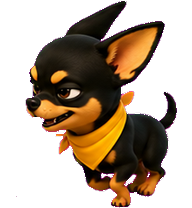
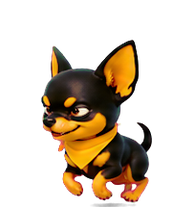
Add a walk cycle, and match ground speed to each gait's stride
The pet only had a run, played at 55 px/sec for a cycle whose stride is
several times that, so it treadmilled: a full gallop advanced it 33px
against a body length of 188. Wander now picks a gait by distance and each
gait moves at the speed its own art implies, measured by tracking how far
the ground-contact pixels travel through the contact phase — 121 px/sec
walking, 257 running. A test reads that stride back out of the frames and
checks the constants against it, since redrawing legs moves it; one edit
during this work shifted the walk from 92 to 135 to 121.

Sub-pixel movement now carries between ticks. Truncating it made the real
speed a property of the timer interval instead of the setting: at 16ms the
pet advanced one whole pixel per tick, 62 px/sec, whatever was configured.

Picking a gait from the menu traverses the screen rather than running the
legs on the spot, falling back to held playback when there is no room.

Both gaits are re-imported from the source strips with the keying reworked:
the key is un-premultiplied out of the blend so edge pixels carry real fur
colour at partial alpha, spill is neutralised wherever red and blue both
clear green, and the resample is premultiplied. Hard staircase steps along
the silhouette fell from 45% to 7-9%. Residue removal now tests red and
blue against green rather than against fixed levels, which caught a class
of darker rim pixels around (105, 5, 107) that showed as a purple fringe.
[…]

diff --git a/tests/test_qt_backend.py b/tests/test_qt_backend.py
@@ -573,6 +573,139 @@ def test_menu_exposes_evil_specials_only_in_evil_mode(window, library, monkeypat
         assert special in evil_labels
 
 
+def test_picking_a_gait_from_the_menu_travels(window, monkeypatch):
+    """Held playback runs the legs on the spot, which reads as a treadmill."""
+    from PyQt6.QtCore import QRect
+    area = QRect(0, 0, window.width() + 800, 400)
+    monkeypatch.setattr(window, "_current_screen_geometry", lambda: area)
+    window.state.set_persona("evil")
+    for name, gait, expected_dir in (("walking-right", "walking", 1),
+                                     ("running-left", "running", -1)):
+        window.move(area.x() + 400, window.y())
+        start = window.x()
+        window.pick_animation(name)
+        assert window.state.clip.name == name
+        assert not window.state.held, "a traversal must not be held in place"
+        assert window._wander_gait == gait
+        assert window._wander_target is not None
+        for _ in range(40):
+            window.tick()
+        moved = window.x() - start
+        assert moved * expected_dir > 0, f"{name} went the wrong way ({moved}px)"
+
+
+def test_picking_a_still_animation_still_holds(window):
+    window.state.set_persona("evil")
+    window.pick_animation("grin")
+    assert window.state.held and window._wander_target is None
+
+
+def test_gait_at_the_edge_holds_instead_of_travelling(window, monkeypatch):
+    """No room to walk means play it where it stands, not stutter at the wall."""
+    from PyQt6.QtCore import QRect
+    area = QRect(0, 0, window.width() + 800, 400)
+    monkeypatch.setattr(window, "_current_screen_geometry", lambda: area)
+    window.state.set_persona("evil")
+    window.move(area.right() - window.width(), window.y())
+    window.pick_animation("walking-right")
+    assert window.state.held and window._wander_target is None
+
+
+def test_gait_speed_matches_the_stride_in_the_art():
+    """Ground speed has to track the art, or the paws skate.
+
+    Reads the stride straight out of the frames: a planted paw travels backwards
+    by one stride per cycle, so the fore-aft span of the ground-contact pixels
+    over the contact phase gives the speed at which the feet grip. Editing the
+    legs moves this — a redraw of the walk cycle shifted its stride from 92px to
+    128px — so the constant is checked against the frames rather than trusted.
+    """
+    from zestpet.qt_backend import GAIT_SPEED
+    lib = core.ClipLibrary().load()
+    for gait, want in GAIT_SPEED.items():
+        clip = lib.resolve(f"{gait}-right", "evil")
+        assert clip is not None, f"no art for {gait}"
+        paws = []
+        for frame in clip.frames:
+            a = frame.getchannel("A").load()
+            w, h = frame.size
+            paw = max(y for y in range(h) if any(a[x, y] > 128 for x in range(w)))
+            band = [x for y in range(paw - 4, paw + 1) for x in range(w) if a[x, y] > 128]
+            paws.append((paw, min(band), max(band)))
+        floor = max(p for p, _, _ in paws)
+        # A blurred paw reads a few pixels high, so contact is a window not an
+        # exact match; the airborne frames of the run sit 14px or more clear.
+        contact = [(lo, hi) for p, lo, hi in paws if floor - p <= 10]
+        span = max(hi for _, hi in contact) - min(lo for lo, _ in contact)
+        measured = span / (len(contact) / clip.fps)
+        assert abs(measured - want) / want < 0.15, (
+            f"{gait}: art strides at {measured:.0f} px/sec, GAIT_SPEED says {want:.0f}")
+
+
+def test_gait_matches_the_distance(window):
+    """A short hop is a stroll, a long trip is a run."""
+    from zestpet.qt_backend import RUN_DISTANCE, MIN_WANDER_DISTANCE
+    window.state.set_persona("evil")
+    assert window._gait_for(MIN_WANDER_DISTANCE) == "walking"
+    assert window._gait_for(RUN_DISTANCE - 1) == "walking"
+    assert window._gait_for(RUN_DISTANCE) == "running"
+    assert window._gait_for(RUN_DISTANCE * 3) == "running"
+
+
+def test_gait_falls_back_to_running_without_walk_art(window):
+    """The walk cycle is evil-only art, so the plain persona has to keep running
+    rather than asking for a clip that cannot resolve."""
+    from zestpet.qt_backend import RUN_DISTANCE
+    window.state.set_persona(COMMON)
+    assert not window.library.has("walking-right", COMMON)
+    assert window._gait_for(RUN_DISTANCE // 2) == "running"
+
+
+def test_wander_plays_the_gait_it_picked(window, monkeypatch):
+    from PyQt6.QtCore import QRect
+    from zestpet.qt_backend import IDLE_BEFORE_WANDER, RUN_DISTANCE
+    window.state.set_persona("evil")
+    area = QRect(0, 0, window.width() + RUN_DISTANCE * 2, 400)
+    monkeypatch.setattr(window, "_current_screen_geometry", lambda: area)
+    window.config["wander"] = True
+    for target, expected in ((60, "walking"), (RUN_DISTANCE + 80, "running")):
+        window.move(0, window.y())
+        window._wander_target = None
+        window._last_interaction -= IDLE_BEFORE_WANDER + 1
+        monkeypatch.setattr(window, "_pick_wander_target", lambda *a, t=target: t)
+        window._step_wander()
+        assert window._wander_gait == expected
+        assert window.state.clip.name == f"{expected}-right"
+
+
+def test_wander_speed_does_not_depend_on_the_tick_rate(window, monkeypatch):
+    """Sub-pixel movement has to carry over between ticks.
+
+    Truncating it made the real speed a property of the timer interval: at 16ms
+    a stroll moved one whole pixel a tick, 62px/sec, whichever constant was set.
+    """
+    from PyQt6.QtCore import QRect
+    from zestpet.qt_backend import GAIT_SPEED, IDLE_BEFORE_WANDER
+    area = QRect(0, 0, 4000, 400)
+    monkeypatch.setattr(window, "_current_screen_geometry", lambda: area)
+    window.config["wander"] = True
+    for gait in ("walking", "running"):
+        window.move(0, window.y())
+        window._wander_target = 3000
+        window._wander_gait = gait
+        window._wander_carry = 0.0
+        window._last_interaction -= IDLE_BEFORE_WANDER + 1
+        ticks = 200
+        start = window.x()
+        for _ in range(ticks):
+            window._step_wander()
+        travelled = window.x() - start
+        seconds = ticks * window._timer.interval() / 1000.0
+        expected = GAIT_SPEED[gait] * seconds
+        assert abs(travelled - expected) <= 2, (
+            f"{gait}: moved {travelled}px in {seconds:.2f}s, expected {expected:.0f}")
+
+
 def test_scale_steps_match_the_pre_refactor_build():
     """Parity check. Lived in test_core.py, which is meant to import no GUI
     toolkit — reading qt_backend.SCALES pulls in PyQt6, so it belongs here."""

diff --git a/zestpet/qt_backend.py b/zestpet/qt_backend.py
@@ -23,7 +23,14 @@ DRAG_THRESHOLD = 3
 CLICK_MAX_SECONDS = 0.3
 LOOK_POLL_MS = 100
 IDLE_BEFORE_WANDER = 12.0
-WANDER_SPEED = 55.0  # px/sec
+# Ground speed is matched to each cycle's own stride so the paws grip instead of
+# skating. Measured from the art by tracking how far the ground-contact pixels
+# travel: the walk keeps all eight frames planted and drags 121px through its
+# 1.0s cycle; the run's three contact frames drag 77px in 0.30s, and the
+# airborne half covers the same again. A single 55px/sec for both left the pet
+# treadmilling — a full gallop advanced it 33px, under a third of a body length.
+GAIT_SPEED = {"walking": 121.0, "running": 257.0}  # px/sec
+RUN_DISTANCE = 320  # far enough that strolling there would take too long
 MIN_WANDER_DISTANCE = 40  # don't bother strolling less than this
 GRAVITY = 1400.0  # px/sec^2
 FLOOR_MARGIN = 8
@@ -42,6 +49,12 @@ PET_WINDOW_KIND = Qt.WindowType.Window if sys.platform == "darwin" else Qt.Windo
 
 def to_pixmap(pil_img) -> QPixmap:
     return QPixmap.fromImage(ImageQt.ImageQt(pil_img))
+
+
+def _gait_of(name: str):
+    """Split a locomotion clip name into (gait, direction), or None."""
+    gait, _, direction = name.rpartition("-")
+    return (gait, direction) if gait in GAIT_SPEED and direction in ("left", "right") else None
 
 
 class PetWidget(QLabel):
@@ -88,6 +101,8 @@ class PetWindow(QWidget):
         self._last_drag_x = 0
         self._last_interaction = time.perf_counter()
         self._wander_target: Optional[int] = None
+        self._wander_gait: str = "running"
+        self._wander_carry: float = 0.0
         self._fall_velocity: Optional[float] = None
         self._tray: Optional[QSystemTrayIcon] = None
 
@@ -264,6 +279,15 @@ class PetWindow(QWidget):
             pick -= width
         return None  # unreachable: pick is always inside one of the ranges
 
+    def _gait_for(self, distance: int) -> str:
+        """Stroll a short hop, run a long one.
+
+        Walking art is evil-only, so any persona without it always runs.
+        """
+        if distance < RUN_DISTANCE and self.library.has("walking-right", self.state.persona):
+            return "walking"
+        return "running"
+
     def _step_wander(self) -> bool:
         """Stroll to a random spot along the current screen after a quiet spell."""
         if self.state.busy or self._dragging or self._fall_velocity is not None:
@@ -289,9 +313,18 @@ class PetWindow(QWidget):
             if target is None:
                 return False
             self._wander_target = target
+            self._wander_gait = self._gait_for(abs(target - self.x()))
+            self._wander_carry = 0.0
+        gait = self._wander_gait
         direction = 1 if self._wander_target > self.x() else -1
-        self.state.play("running-right" if direction > 0 else "running-left")
-        step = max(1, int(WANDER_SPEED * self._timer.interval() / 1000.0))
+        self.state.play(f"{gait}-right" if direction > 0 else f"{gait}-left")
+        # Carry the fraction of a pixel over to the next tick. Truncating it
+        # away made the real speed a function of the timer interval rather than
+        # of the setting: at 16ms a stroll advanced a whole pixel per tick,
+        # 62 px/sec, whatever the constant said.
+        advance = GAIT_SPEED[gait] * self._timer.interval() / 1000.0 + self._wander_carry
+        step = int(advance)
+        self._wander_carry = advance - step
         new_x = self.x() + direction * step
         arrived = (new_x >= self._wander_target) if direction > 0 else (new_x <= self._wander_target)
         if arrived:
@@ -437,8 +470,29 @@ class PetWindow(QWidget):
     def _play_held(self, name: str) -> None:
         self._last_interaction = time.perf_counter()
         self._wander_target = None
+        gait = _gait_of(name)
+        if gait and self._start_traverse(*gait):
+            return
         self.state.play(name, held=True)
         self.render()
+
+    def _start_traverse(self, gait: str, direction: str) -> bool:
+        """Walk or run to the edge of the screen instead of on the spot.
+
+        Held playback keeps the pet still, so picking a gait from the menu ran
+        the legs and went nowhere — a treadmill. Returns False when there is no
+        room to go anywhere, in which case the caller holds the clip as before.
+        """
+        area = self._current_screen_geometry()
+        edge = area.x() if direction == "left" else area.right() - self.width()
+        if abs(edge - self.x()) < MIN_WANDER_DISTANCE:
+            return False
+        self.state.play(f"{gait}-{direction}")  # not held, so _step_wander drives it
+        self._wander_gait = gait
+        self._wander_carry = 0.0
+        self._wander_target = edge
+        self.render()
+        return True
 
     def _start_fall_if_airborne(self) -> None:
         if not self.config.get("gravity", True):

diff --git a/tests/test_core.py b/tests/test_core.py
@@ -125,9 +125,13 @@ def test_every_frame_is_rgba_and_not_blank(lib):
 
 
 def test_no_chroma_key_residue(lib):
-    """The art is rendered on magenta. Any strongly magenta pixel left behind is
-    key residue showing as a rim around the silhouette — the palette is black,
-    tan, yellow, grey-blue and cream, so nothing here is legitimately magenta."""
+    """No source may skip the residue cleanup.
+
+    The art is rendered on magenta and every loader path has to run the frames
+    through drop_key_residue. The risk this guards is a missing call — a new
+    source, or a step inserted after the cleanup that resamples the key colour
+    back in — so it asks for zero, not for a small number.
+    """
     offenders = {}
     for clip in lib._clips.values():
         count = 0
@@ -137,11 +141,71 @@ def test_no_chroma_key_residue(lib):
             for y in range(0, h, 2):
                 for x in range(0, w, 2):
                     r, g, b, a = px[x, y]
-                    if a > 128 and r > 110 and b > 110 and g < 70:
+                    if (a > 64 and r - g > core.MAGENTA_OVER_GREEN
+                            and b - g > core.MAGENTA_OVER_GREEN):
                         count += 1
-        if count > 20:  # a handful of sampled pixels is dark fur, not a rim
+        if count:
             offenders[f"{clip.persona}/{clip.name}"] = count
     assert not offenders, f"chroma-key residue left: {offenders}"
+
+
+def test_key_residue_mask_is_calibrated():
+    """The cut between residue and art, pinned against real pixel values.
+
+    Residue arrives at every brightness because the rim is magenta diluted by
+    whatever it borders. Testing against an absolute level missed the darker end
+    of that range: the samples here are measured from imported frames, and the
+    (105, 5, 107) one survived the earlier threshold of 110 and showed as a
+    visible purple fringe.
+    """
+    palette = {
+        "black fur": (30, 25, 20),
+        "tan": (200, 140, 60),
+        "yellow bandana": (255, 210, 60),
+        "cream muzzle": (245, 235, 210),
+        "grey-blue": (100, 130, 160),
+        "neutral grey": (100, 95, 100),
+        "cool shadow on black": (60, 60, 70),
+    }
+    residue = {
+        "bright rim": (216, 3, 202),
+        "mid rim": (115, 34, 110),
+        "dark rim": (105, 5, 107),
+        "darker rim": (77, 5, 67),
+    }
+
+    def surviving_alpha(rgb):
+        img = Image.new("RGBA", (4, 4), rgb + (255,))
+        return core.drop_key_residue(img).getpixel((2, 2))[3]
+
+    for name, rgb in palette.items():
+        assert surviving_alpha(rgb) == 255, f"{name} {rgb} was treated as residue"
+    for name, rgb in residue.items():
+        assert surviving_alpha(rgb) == 0, f"{name} {rgb} survived the cleanup"
+
+
+def test_residue_cleanup_only_takes_a_rim(lib):
+    """Cleanup must shave the edge, not bite into the dog.
+
+    Compared against the frames as they sit on disk, since those are pre-cleanup.
+    """
+    for name, persona in (("walking-right", "evil"), ("running-right", "evil"),
+                          ("idle", "evil")):
+        clip = lib.resolve(name, persona)
+        if clip is None or clip.source != "dir":
+            continue
+        folder = core.asset_root() / "anim" / persona / name
+        raw = [Image.open(p).convert("RGBA") for p in sorted(folder.glob("*.png"))]
+        if len(raw) != clip.frame_count:
+            continue
+
+        def opaque(img):
+            return sum(1 for p in img.getdata() if p[3] > 128)
+
+        before = sum(opaque(f) for f in raw)
+        after = sum(opaque(f) for f in clip.frames)
+        lost = (before - after) / before
+        assert 0 <= lost < 0.08, f"{persona}/{name} lost {lost:.1%} of its artwork"
 
 
 def test_manifest_rows_all_loaded(lib):
@@ -538,9 +602,12 @@ def test_scale_option_shrinks_the_dog_inside_the_cell(tmp_path):
     ("running-left", COMMON, silhouette_scale, (0.0, 1.0)),
     ("running-right", "evil", silhouette_scale, (0.0, 1.0)),
     ("running-left", "evil", silhouette_scale, (0.0, 1.0)),
+    ("walking-right", "evil", silhouette_scale, (0.0, 1.0)),
+    ("walking-left", "evil", silhouette_scale, (0.0, 1.0)),
 ], ids=["head-pat height", "rub-leg height", "head-pat head width",
         "run-right common area", "run-left common area",
-        "run-right evil area", "run-left evil area"])
+        "run-right evil area", "run-left evil area",
+        "walk-right evil area", "walk-left evil area"])
 def test_clips_match_the_reference_dog_size(lib, name, persona, ruler, x_window):
     """The dog must read as the same size in every clip.
 

diff --git a/zestpet/core.py b/zestpet/core.py
@@ -141,6 +141,10 @@ def shrink_artwork(img: Image.Image, factor: float) -> Image.Image:
     return canvas
 
 
+# How far red and blue must sit above green before a pixel counts as chroma-key
+# residue rather than art. See drop_key_residue.
+MAGENTA_OVER_GREEN = 40
+
 WHITE_KEY_THRESHOLD = 230
 
 
@@ -149,18 +153,27 @@ def drop_key_residue(img: Image.Image) -> Image.Image:
 
     The art is rendered on magenta and keyed by whoever produced it, which
     leaves a one-pixel magenta rim on silhouettes — present in the atlas as
-    well as in the frame folders. Zest's palette is black, tan, yellow,
-    grey-blue and cream, so a strongly magenta pixel (red and blue high, green
-    low) is always residue. Tan and yellow carry too much green to match, and
-    black is too dark.
+    well as in the frame folders.
+
+    Residue is detected by how far red and blue sit above green, not by absolute
+    levels. The rim is magenta diluted by whatever it borders, so it arrives at
+    every brightness: an earlier version tested red and blue against a fixed 110
+    and missed a whole class of darker rim pixels sitting at about (105, 5, 107),
+    leaving roughly 40 a frame on imported strips against 5 on the atlas art.
+    Comparing against green instead is brightness-independent.
+
+    Nothing in the palette is at risk. Black, tan, yellow and cream all have low
+    blue relative to green, grey-blue has low red, and a neutral grey has all
+    three channels together — only a purple has both red and blue well clear of
+    green, and Zest has no purple.
 
     Done at load time so it covers every source, including art added later.
     Vectorised through channel ops; a per-pixel loop would cost far more.
     """
     r, g, b, a = img.split()
-    high = lambda v: 255 if v > 110 else 0  # noqa: E731
-    low = lambda v: 255 if v < 70 else 0  # noqa: E731
-    mask = ImageChops.darker(ImageChops.darker(r.point(high), b.point(high)), g.point(low))
+    over = lambda v: 255 if v > MAGENTA_OVER_GREEN else 0  # noqa: E731
+    mask = ImageChops.darker(ImageChops.subtract(r, g).point(over),
+                             ImageChops.subtract(b, g).point(over))
     # Clearing alpha alone is not enough: the magenta stays in the RGB channels,
     # and any later resampling (a scale factor, a size change) blends it back in
     # around the edges. Zero the colour too.
